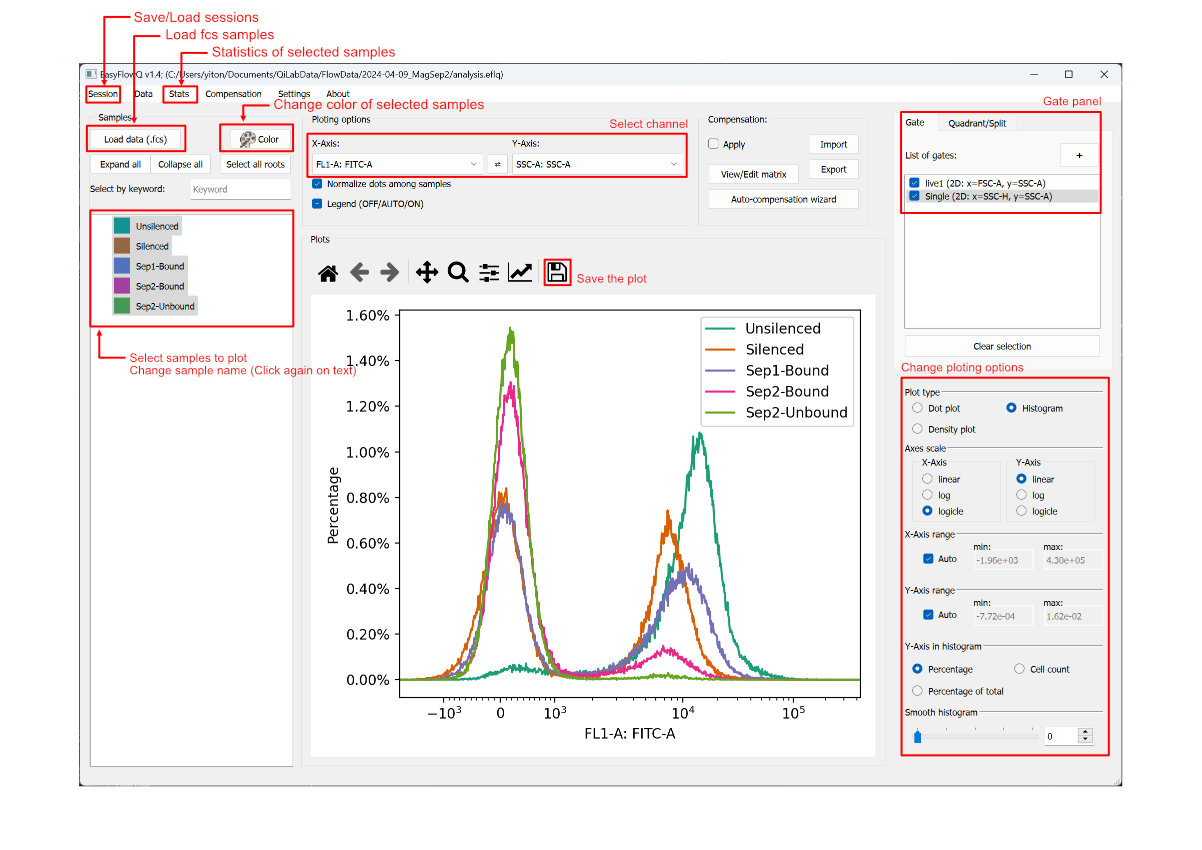
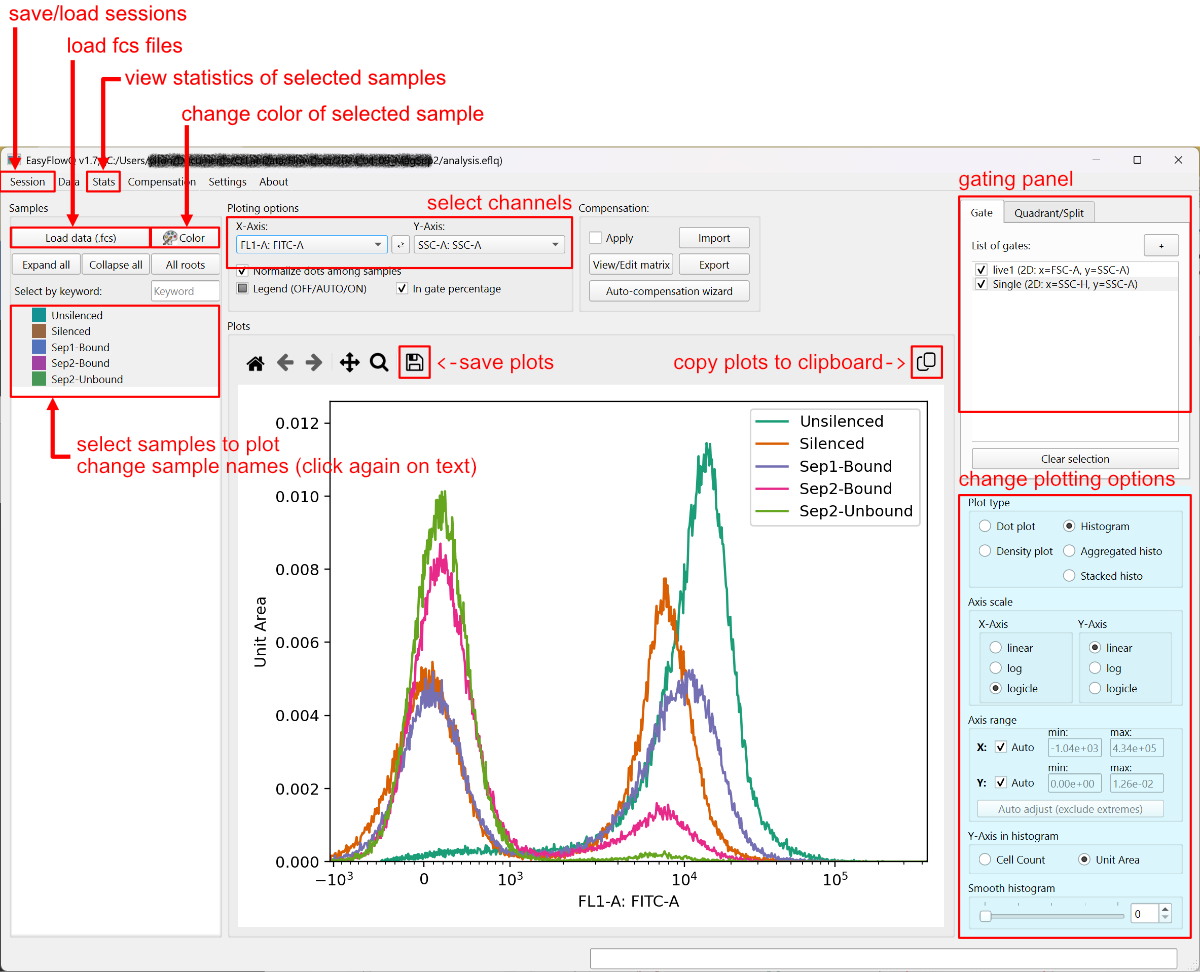
Update documentation and enhance CSS styles for better layout and readability

Changed region(s): [[0.0, 0.0, 1.0, 1.0], [0.0, 0.9788, 0.0308, 1.0]]

diff --git a/docs/css/extra.css b/docs/css/extra.css
@@ -1,3 +1,12 @@
 .wy-nav-content {
-    max-width: 1000px !important;
+    max-width: 85% !important;
+}
+
+h1 {
+    color: darkblue;
+    text-decoration: underline
+}
+
+h2 {
+    color: dodgerblue;
 }

diff --git a/docs/Basic Usage.md b/docs/Basic Usage.md
@@ -28,10 +28,10 @@ Here we list some of the basic operations for a simple analysis:
 2. **Change sample names:** Double click on the samples to change the sample's name.
 3. **Plotting:** Select the samples you want to plot on the main plotting region. Yes, it support multi-selection.
 4. **Change color:** To change colors of your sample, click the "Sample color" button on the top panel. Note that all the samples that are currently selected will be affected by your color change.
-5. **Tweak plot options:** You can change how the figures are plotted in the plotting option panel in the lower-right conner. EasyFlowQ support bot dot plots, and histograms, as well as customizable plotting ranges, axes scales, normalization and smoothing. More plot types like stacked histogram and density plots are on our developing road map. 
+5. **Tweak plot options:** You can change how the figures are plotted in the plotting option panel in the lower-right conner. EasyFlowQ support both dot/density plots, and different types of histogram, as well as customizable plotting ranges, axes scales, normalization and smoothing. 
 6. **Choose plot axises:** You can choose what channel(s) are plotted in the top panel. Note that the y-axis option is ignored in histogram mode.
-7. **Save the plot:** The plot can be save by clicking on the "Save" icon on top of the plot. Several types of image formats (png, jpg, pdf...) are supported. 
-8. **Save the session**: You can save the analysis session by using the "Save session" function in the menu (or simple Ctrl+S). We recommend put the session file in the same directory as your fcs files, or one level up.
+7. **Save/Copy the plot:** The plot can be save by clicking on the "Save" icon on top of the plot. Several types of image formats (png, jpg, pdf...) are supported. An option of copying the plots to clipboard is also available at the upper right conner of plotting region (the shortcut `Ctrl+C` is linked to this function in the main window). 
+8. **Save the session**: You can save the analysis session by using the "Save session" function in the menu (or simple `Ctrl+S`). We recommend put the session file in the same directory as your fcs files, or one level up.
 
 Below you can see an annotated screenshot about the operations mentioned above.
 
@@ -45,7 +45,7 @@ Check the desired gates in the "Gate" panel to apply that gate onto the samples.
 
 **For ver<=1.5, known bug specific to MacOS version**: After closing of the polygon gates (right/ctrl click), there is a chance some parts of the interface will freeze. Simply right click again in the gate section, and the interface should unfreeze. This is likely due to the GUI is confused between right click vs ctrl-click on the MacOS (should be the same, but sometime is recorded differently).
 
-#### Plot the gate
+#### Plot/Show the gate
 You can also select the gate to show on the plot. Note, it only works if you have the right axis(s) (where the gates are defined) selected. To clear the selection, click the "Clear selection" button in the "Gate" panel.
 
 #### Edit or delete existing gates
